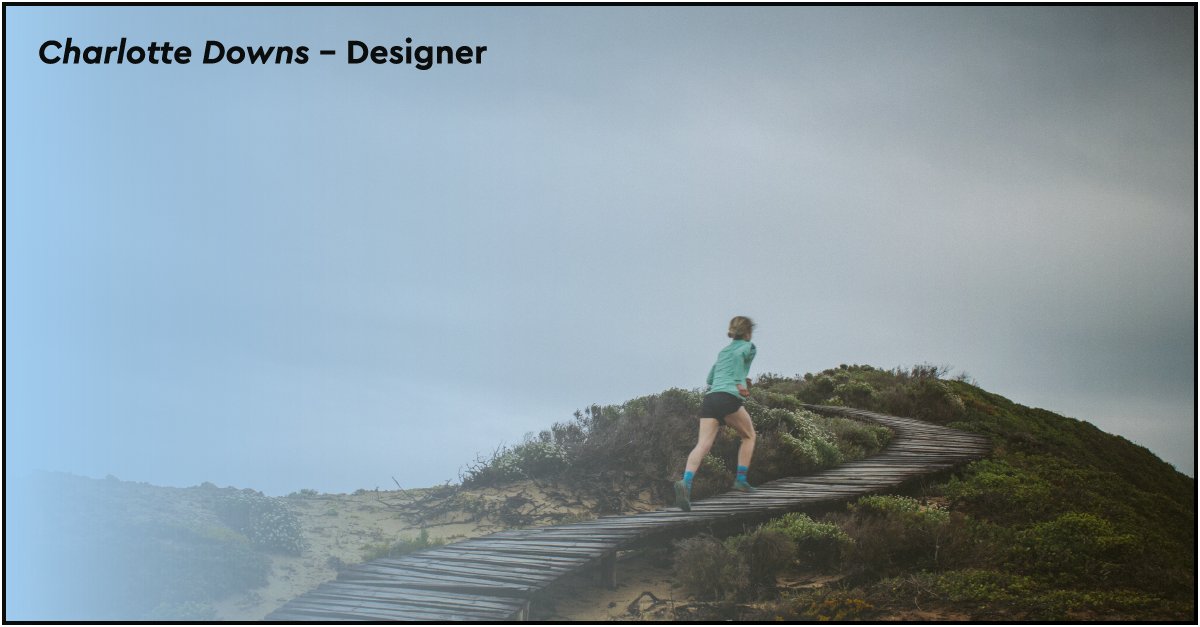
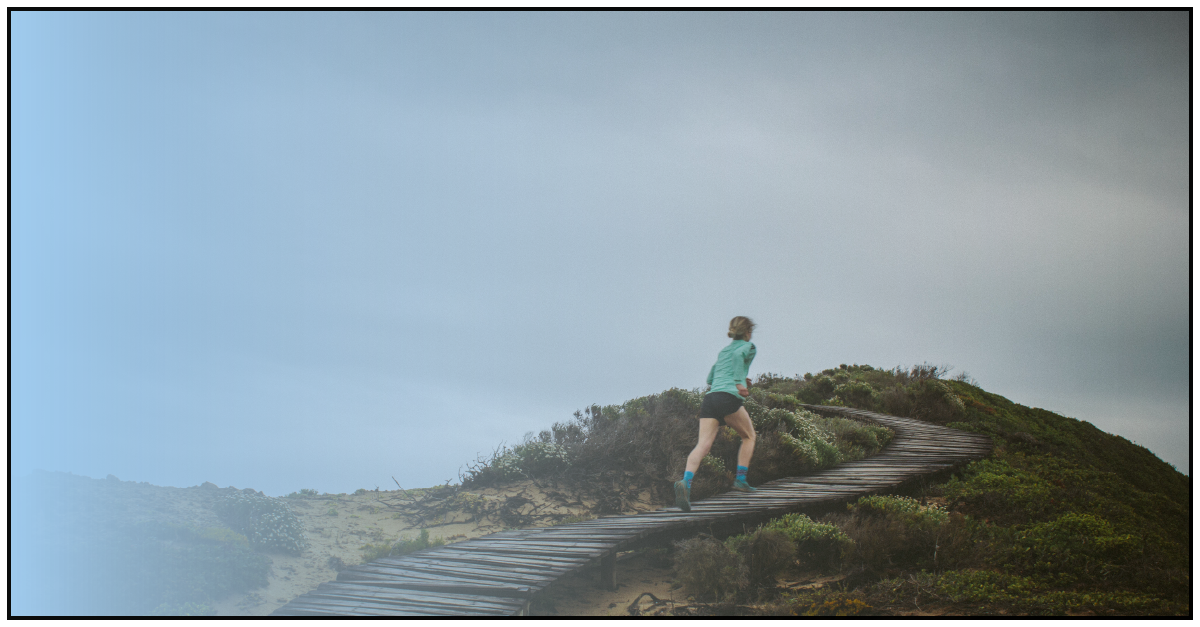
update footer and og image

Changed region(s): [[0.0, 0.0, 1.0, 1.0]]

diff --git a/index.html b/index.html
@@ -150,10 +150,10 @@
 					<nav>
 						<ul>
 							<li>
-								<a href="mailto:charlotteldowns@gmail.com">Email me</a>
+								<a href="mailto:charlotteldowns@gmail.com">Email me</a>,
 							</li>
 							<li>
-								<a target="_blank" href="http://twitter.com/CharlotteLDowns">Follow me on twitter</a>
+								<a target="_blank" href="http://twitter.com/CharlotteLDowns">Follow me on twitter</a>,
 							</li>
 							<li>
 								<a target="_blank" href="https://dribbble.com/C_Downs">Follow me on dribbble</a>

diff --git a/projects/more-than-carrots.html b/projects/more-than-carrots.html
@@ -116,10 +116,10 @@
 					<nav>
 						<ul>
 							<li>
-								<a href="mailto:charlotteldowns@gmail.com">Email me</a>
+								<a href="mailto:charlotteldowns@gmail.com">Email me</a>,
 							</li>
 							<li>
-								<a target="_blank" href="http://twitter.com/CharlotteLDowns">Follow me on twitter</a>
+								<a target="_blank" href="http://twitter.com/CharlotteLDowns">Follow me on twitter</a>,
 							</li>
 							<li>
 								<a target="_blank" href="https://dribbble.com/C_Downs">Follow me on dribbble</a>

diff --git a/projects/accessible-communications.html b/projects/accessible-communications.html
@@ -65,10 +65,10 @@
 					<nav>
 						<ul>
 							<li>
-								<a href="mailto:charlotteldowns@gmail.com">Email me</a>
+								<a href="mailto:charlotteldowns@gmail.com">Email me</a>,
 							</li>
 							<li>
-								<a target="_blank" href="http://twitter.com/CharlotteLDowns">Follow me on twitter</a>
+								<a target="_blank" href="http://twitter.com/CharlotteLDowns">Follow me on twitter</a>,
 							</li>
 							<li>
 								<a target="_blank" href="https://dribbble.com/C_Downs">Follow me on dribbble</a>

diff --git a/projects/cinter.html b/projects/cinter.html
@@ -81,10 +81,10 @@
 					<nav>
 						<ul>
 							<li>
-								<a href="mailto:charlotteldowns@gmail.com">Email me</a>
+								<a href="mailto:charlotteldowns@gmail.com">Email me</a>,
 							</li>
 							<li>
-								<a target="_blank" href="http://twitter.com/CharlotteLDowns">Follow me on twitter</a>
+								<a target="_blank" href="http://twitter.com/CharlotteLDowns">Follow me on twitter</a>,
 							</li>
 							<li>
 								<a target="_blank" href="https://dribbble.com/C_Downs">Follow me on dribbble</a>

diff --git a/projects/indigoand.html b/projects/indigoand.html
@@ -78,10 +78,10 @@
 					<nav>
 						<ul>
 							<li>
-								<a href="mailto:charlotteldowns@gmail.com">Email me</a>
+								<a href="mailto:charlotteldowns@gmail.com">Email me</a>,
 							</li>
 							<li>
-								<a target="_blank" href="http://twitter.com/CharlotteLDowns">Follow me on twitter</a>
+								<a target="_blank" href="http://twitter.com/CharlotteLDowns">Follow me on twitter</a>,
 							</li>
 							<li>
 								<a target="_blank" href="https://dribbble.com/C_Downs">Follow me on dribbble</a>

diff --git a/projects/project-power.html b/projects/project-power.html
@@ -86,10 +86,10 @@
 					<nav>
 						<ul>
 							<li>
-								<a href="mailto:charlotteldowns@gmail.com">Email me</a>
+								<a href="mailto:charlotteldowns@gmail.com">Email me</a>,
 							</li>
 							<li>
-								<a target="_blank" href="http://twitter.com/CharlotteLDowns">Follow me on twitter</a>
+								<a target="_blank" href="http://twitter.com/CharlotteLDowns">Follow me on twitter</a>,
 							</li>
 							<li>
 								<a target="_blank" href="https://dribbble.com/C_Downs">Follow me on dribbble</a>

diff --git a/projects/wilmotml.html b/projects/wilmotml.html
@@ -67,10 +67,10 @@
 					<nav>
 						<ul>
 							<li>
-								<a href="mailto:charlotteldowns@gmail.com">Email me</a>
+								<a href="mailto:charlotteldowns@gmail.com">Email me</a>,
 							</li>
 							<li>
-								<a target="_blank" href="http://twitter.com/CharlotteLDowns">Follow me on twitter</a>
+								<a target="_blank" href="http://twitter.com/CharlotteLDowns">Follow me on twitter</a>,
 							</li>
 							<li>
 								<a target="_blank" href="https://dribbble.com/C_Downs">Follow me on dribbble</a>
